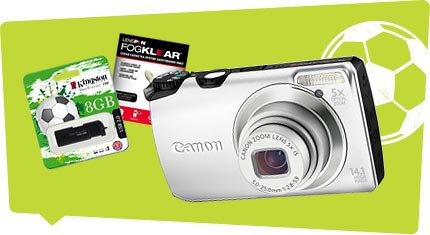
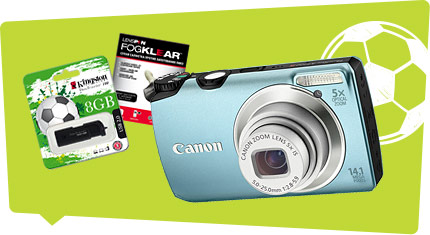
refs #2663 Football page updated

diff --git a/web/football.html b/web/football.html
@@ -216,7 +216,7 @@ document.write('<scr' + 'ipt type="text/javascript" src="http://ads.adfox.ru/171
           
           
           <div class="enter font54 ac">Радость для футбольного болельщика</div>
-          <div class="enter font18 ac">Еще больше товаров для болельщиков на сайте. Ищи товары для болельщика на сайте.</div>
+          <div class="enter font18 ac">Ищи товары для болельщика на сайте.</div>
         </div>
         <!-- Page head -->
         
@@ -237,43 +237,13 @@ document.write('<scr' + 'ipt type="text/javascript" src="http://ads.adfox.ru/171
                   <div class="title">Комплект &laquo;Фотографируй футбол&raquo;<sup>*</sup></div>
                   <img src="images/footbal1.jpg" alt="Комплект &laquo;Фотографируй футбол»&raquo;" width="430" height="235" /> 
                   <ul>
-                      <li><a href="http://www.enter.ru/product/electronics/tsifrovoy-fotoapparat-canon-powershot-a3200-serebristiy-2060701000141">Цифровой фотоаппарат Canon PowerShot A3200 серебристый</a></li>
+                      <li><a href="http://www.enter.ru/product/electronics/tsifrovoy-fotoapparat-canon-powershot-a3200-siniy-2060701000165">Цифровой фотоаппарат Canon PowerShot A3200 синий</a></li>
                       <li><a href="http://www.enter.ru/product/electronics/salfetka-ot-zapotevaniya-linz-lenspen-fogklear-2060507000192">Салфетка от запотевания линз Lenspen FogKlear</a></li>
                       <li><a href="http://www.enter.ru/product/electronics/usb-fleshka-kingston-datatraveler-100g2-8-gb-futbol-2060501004127">USB-флэшка Kingston DataTraveler 100G2 8 ГБ «Футбол»</a></li>
                   </ul>
                   <div class="pricebox">
                       <strong class="through font18">3 545 <span class="rubl">p</span></strong>
                       <strong class="font30">2 836 <span class="rubl">p</span></strong>
-                      <span class="">За комплект</span>
-                  </div>         
-              </div>
-              
-              <div class="promogoods">
-                  <div class="title">Комплект &laquo;Место болельщика&raquo;<sup>*</sup></div>
-                  <img src="images/footbal2.jpg" alt="Комплект &laquo;Фотографируй футбол»&raquo;" width="430" height="235" /> 
-                  <ul>
-                      <li><a href="http://www.enter.ru/product/furniture/kreslo-myach-classic-big-2050600005668">Кресло-мяч Classic Big</a></li>
-                      <li><a href="http://www.enter.ru/product/household/bokal-dlya-piva-500-ml-uefa-rossiya-evro-2012-2040102006690">Бокал для пива 500 мл UEFA Россия Евро-2012</a></li>
-                      <li><a href="http://www.enter.ru/product/electronics/led-televizor-samsung-ue-32eh5000wx-2060201001884">LED-телевизор 32" Samsung<br />UE-32EH5000WX</a></li>
-                  </ul>
-                  <div class="pricebox">
-                      <strong class="through font18">16 879 <span class="rubl">p</span></strong>
-                      <strong class="font30">13 503 <span class="rubl">p</span></strong>
-                      <span class="">За комплект</span>
-                  </div>         
-              </div>
-              
-              <div class="promogoods">
-                  <div class="title">Комплект &laquo;Пока муж смотрит футбол&raquo;<sup>*</sup></div>
-                  <img src="images/footbal3.jpg" alt="Комплект &laquo;Фотографируй футбол»&raquo;" width="430" height="235" /> 
-                  <ul>
-                      <li><a href="http://www.enter.ru/product/gifthobby/manikyurniy-nabor-vitek-vt-2201-2020302000049">Маникюрный набор Vitek VT-2201</a></li>
-                      <li><a href="http://www.enter.ru/product/appliances/massagnaya-vannochka-dlya-nog-vitek-vt-1793-2020302000070">Массажная ванночка для ног Vitek<br />VT-1793</a></li>
-                      <li><a href="http://www.enter.ru/product/sport/nabor-dlya-badmintona-joerex-sh481-2071102000081">Набор для бадминтона Joerex SH481</a></li>
-                  </ul>
-                  <div class="pricebox">
-                      <strong class="through font18">2 990 <span class="rubl">p</span></strong>
-                      <strong class="font30">2 392 <span class="rubl">p</span></strong>
                       <span class="">За комплект</span>
                   </div>         
               </div>
@@ -354,21 +324,6 @@ document.write('<scr' + 'ipt type="text/javascript" src="http://ads.adfox.ru/171
               </div>
               
               <div class="promogoods">
-                  <div class="title">Комплект &laquo;Играй в футбол&raquo;<sup>*</sup></div>
-                  <img src="images/footbal9.jpg" alt="Комплект &laquo;Фотографируй футбол»&raquo;" width="430" height="235" /> 
-                  <ul>
-                      <li><a href="http://www.enter.ru/product/electronics/igra-dlya-pc-pro-evolution-soccer-2012-2060401005743">Игра для PC Pro Evolution Soccer 2012</a></li>
-                      <li><a href="http://www.enter.ru/product/children/nabor-dlya-igri-v-futbol-spiderman-futbolnie-vorota-s-myachom-i-nasosom-2010108001197">Набор для игры в футбол Spiderman<br />«Сборные ворота с мячом и насосом»</a></li>
-                      <li><a href="http://www.enter.ru/product/sport/futbolniy-myach-larsen-luxblue-2071103000851">Футбольный мяч Larsen LuxBlue</a></li>
-                  </ul>
-                  <div class="pricebox">
-                      <strong class="through font18">1 980 <span class="rubl">p</span></strong>
-                      <strong class="font30">1 584 <span class="rubl">p</span></strong>
-                      <span class="">За комплект</span>
-                  </div>         
-              </div>
-              
-              <div class="promogoods">
                   <div class="title">Комплект &laquo;Пока папа смотрит футбол&raquo;<sup>*</sup></div>
                   <img src="images/footbal10.jpg" alt="Комплект &laquo;Фотографируй футбол»&raquo;" width="430" height="235" /> 
                   <ul>
@@ -395,7 +350,7 @@ document.write('<scr' + 'ipt type="text/javascript" src="http://ads.adfox.ru/171
         
         <div class="footnote">
             <span>*</span>Предложение действительно при покупке всех товаров из комплекта единовременно.<br />
-            Срок действия акции с 08.06.2012 по 24.06.2012. Количество комплектов ограничено.<br />
+            Срок действия акции с 08.06.2012 по 30.06.2012. Количество комплектов ограничено.<br />
         </div>
           
                 <div class="clear"></div>
